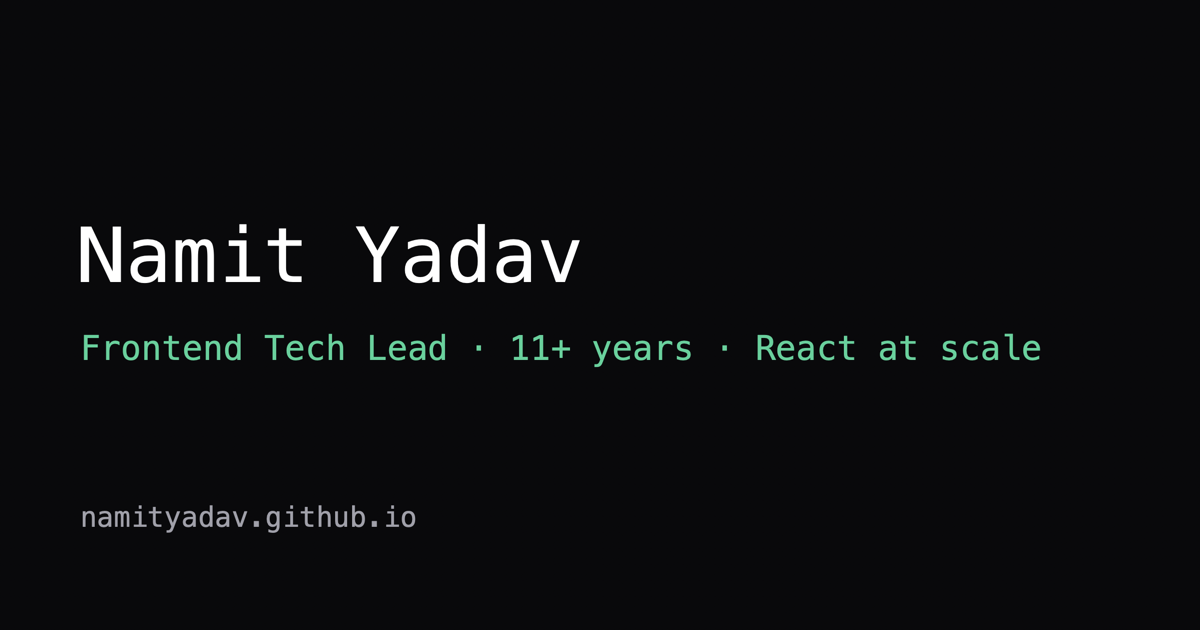
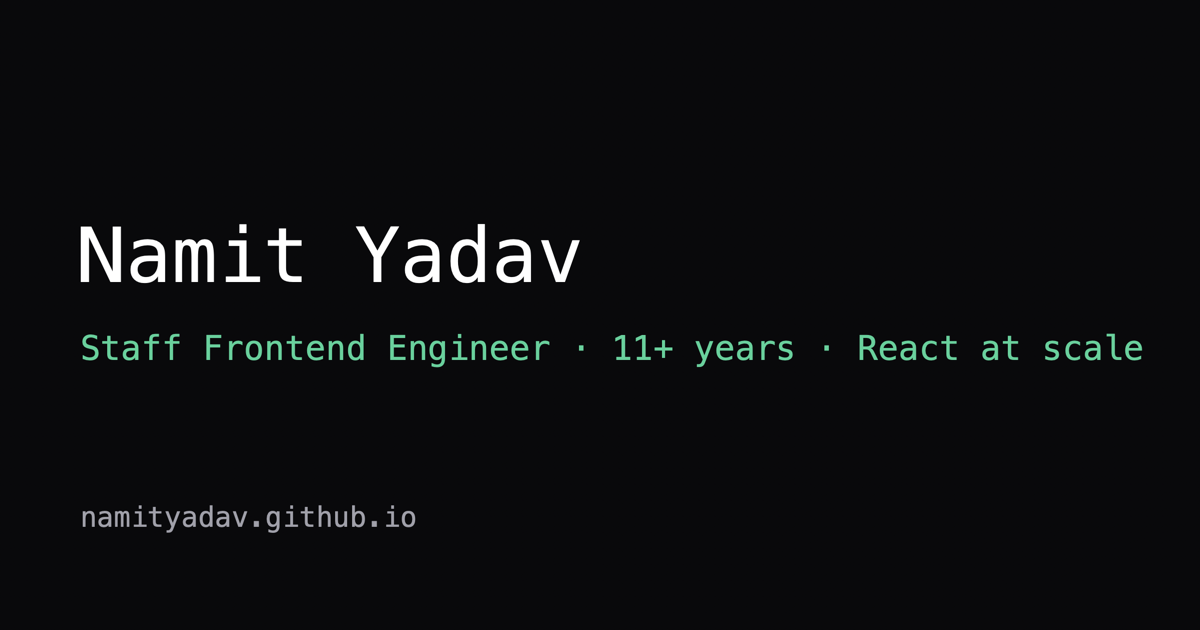
content: staff positioning pass — label, scope numbers, How I work section
Title line, home <title>, JSON-LD and OG image now say Staff Frontend
Engineer. Summary rewritten in a staff voice with the public scope numbers
(15 engineers, 4 pods, 6 apps, ~20 customer orgs). Hero stats move from
outputs to outcomes; the grid stat is labelled as the ADR decision. New
How I work section with five principles, each traceable to a case study.
Skills trimmed of junior-level items. Case studies pick up scope, pod-lead
review of the ADR, and one Snyk figure instead of two percentages.
Spec §11 records the decisions.

Changed region(s): [[0.0617, 0.5127, 0.9558, 0.573]]

diff --git a/src/data/cv.ts b/src/data/cv.ts
@@ -7,22 +7,45 @@ export type Role = {
   bullets: Bullet[];
 };
 
-export const titleLine = 'Frontend Tech Lead · 11+ years · React at scale';
+export const titleLine = 'Staff Frontend Engineer · 11+ years · React at scale';
 
 export const summary =
-  'I build and maintain large React single-page applications. Recent work: framework migrations at scale, ' +
-  'progressive-rollout and feature-flag infrastructure, and automated quality gates across multi-app codebases.';
+  "Functional lead for Zinier's frontend: 15 engineers in four pods, six React apps, around 20 customer organisations. " +
+  'I write the architecture decisions, build the shared platform every pod ships on, and own the quality gates in every pipeline.';
 
 // Short enough to survive a search-result snippet (~155-160 chars); the fuller
 // on-page summary above is for humans already on the site.
 export const shortDescription =
-  'Frontend Tech Lead with 11+ years building large-scale React applications. ' +
-  'Case studies on migrations, feature flags and grid consolidation.';
+  'Staff Frontend Engineer, 11+ years of React at scale. Functional lead for a 15-engineer frontend org; ' +
+  'case studies on migrations, feature flags and ADRs.';
 
 export const stats = [
-  { value: '6 apps', label: 'migrated React 17→18 & Node 14→22' },
-  { value: '734 → 215', label: 'Snyk vulnerabilities, critical −81%' },
-  { value: '95+ → 1', label: 'data grids onto one implementation (ADR)' },
+  { value: '4 of 4 pods', label: 'ship on the shared library and flag layer' },
+  { value: '−30% bugs', label: 'after quality gates on every pipeline' },
+  { value: '95+ → 1', label: 'data grid implementations, decided by ADR' },
+];
+
+export const principles = [
+  {
+    title: 'Decide in writing',
+    text: 'Architecture decisions go in an ADR with the rejected alternatives and the consequences, reviewed before code moves. The record is what lets fifteen engineers in four pods disagree once and then ship the same way.',
+  },
+  {
+    title: 'Ship dark, roll out per customer',
+    text: 'Large changes land on the main branch behind a flag and go live one organisation at a time, with the legacy path as the fallback. Rollback is a config change, not a release.',
+  },
+  {
+    title: 'Put the gate ahead of the deploy',
+    text: 'Lint, unit tests and visual regression run on every pipeline, not after an incident. Reported bugs fell 30% once the gates were in.',
+  },
+  {
+    title: 'Migrate once, not per app',
+    text: 'When six apps share one library, upgrading them in a single coordinated move beats six partial ones: the library targets one set of peer versions and nobody maintains two.',
+  },
+  {
+    title: 'Write down what went wrong',
+    text: 'Every case study here ends with what I would do differently. The estimate I got wrong and the test I added late are the most useful part of the record.',
+  },
 ];
 
 export const links = {
@@ -40,11 +63,14 @@ export const experience: Role[] = [
     period: 'Jul 2024 – present',
     bullets: [
       {
+        text: 'Functional lead for a 15-engineer frontend org across four pods. Mentor 7 engineers through structured 1:1s and career planning; contribute to frontend hiring.',
+      },
+      {
         text: 'Led the migration of 6 apps from React 17 to 18 and Node 14 to 22 in one coordinated move; Snyk vulnerabilities 734 → 215.',
         work: 'react-18-migration',
       },
       {
-        text: 'Built feature-flag and experimentation infrastructure in the shared component library, shipped across three apps.',
+        text: 'Built the feature-flag and experimentation layer in the shared component library. Every pod ships on it, rolling out per customer organisation with automatic fallback.',
         work: 'feature-flags',
       },
       {
@@ -52,7 +78,7 @@ export const experience: Role[] = [
         work: 'data-grid-consolidation',
       },
       {
-        text: 'Introduced visual regression testing (Storybook, Playwright) and added lint, unit-test and CSS-lint gates to every deployment pipeline. Built a Slack code-review bot tracking PR review quality. Mentored engineers through structured 1:1s and contributed to frontend hiring.',
+        text: 'Put lint, unit-test, CSS-lint and visual-regression gates (Storybook, Playwright) on every deployment pipeline; reported bugs fell 30%. Built a Slack bot tracking PR review quality.',
       },
     ],
   },
@@ -116,12 +142,12 @@ export const experience: Role[] = [
 ];
 
 export const skills = [
-  { group: 'Technical leadership', items: ['ADRs', 'Technical strategy', 'Mentorship', 'Project management', 'RCA', 'Progressive delivery'] },
-  { group: 'Core frontend', items: ['JavaScript (ES6+)', 'TypeScript', 'React', 'Node', 'CSS Modules', 'Webpack'] },
-  { group: 'State & architecture', items: ['Redux', 'MobX', 'React Context', 'Module Federation'] },
-  { group: 'Testing & quality', items: ['Jest', 'React Testing Library', 'Cypress', 'Playwright', 'Visual regression', 'TDD', 'Feature flags'] },
-  { group: 'Infrastructure & tools', items: ['CI/CD', 'Git', 'Performance optimisation', 'Responsive web design'] },
-  { group: 'AI-assisted development', items: ['Codemods', 'Agent-assisted refactoring', 'Prompt design for code generation'] },
+  { group: 'Technical leadership', items: ['ADRs', 'Technical strategy', 'Mentorship', 'Hiring', 'RCA', 'Progressive delivery'] },
+  { group: 'Core frontend', items: ['TypeScript', 'React', 'Node', 'CSS Modules', 'Webpack'] },
+  { group: 'State & architecture', items: ['Redux', 'MobX', 'React Context', 'Micro-frontends', 'Module Federation'] },
+  { group: 'Testing & quality', items: ['Jest', 'React Testing Library', 'Cypress', 'Playwright', 'Visual regression', 'TDD'] },
+  { group: 'Delivery & infrastructure', items: ['CI/CD quality gates', 'Feature flags (Firebase Remote Config)', 'Performance optimisation'] },
+  { group: 'AI-assisted development', items: ['Codemods', 'Agent-assisted migrations and refactors'] },
 ];
 
 export const education = 'B.Tech (CSE), Inderprastha Engineering College, Ghaziabad · 2010 – 2014';

diff --git a/src/content/work/feature-flags.md b/src/content/work/feature-flags.md
@@ -2,10 +2,10 @@
 title: "Feature flags and experimentation in the shared component library"
 company: Zinier
 period: "2024 – 2025"
-summary: "Flag and experiment infrastructure built once in the shared library and shipped in three apps, used to roll out a major component rewrite per organisation with automatic fallback."
+summary: "Flag and experiment infrastructure built once in the shared library; every frontend pod ships on it, rolling out a major component rewrite per customer organisation with automatic fallback."
 metrics:
-  - { label: "apps using it", value: "3" }
-  - { label: "rollout unit", value: "per organisation" }
+  - { label: "pods shipping on it", value: "4 of 4" }
+  - { label: "rollout unit", value: "per customer org" }
   - { label: "fallback", value: "automatic" }
 tags: [Feature flags, Progressive delivery, Firebase, GA4]
 order: 2
@@ -23,13 +23,13 @@ Without flags, a rewrite ships to everyone at once or not at all. A regression f
 
 - Built the flag layer in the shared component library: one Firebase initialisation, boolean, string and JSON flag hooks for React, plain getters for non-React code. Every app got it by upgrading the library; three consume it today.
 - Resolution order is fixed: a local override for developers, then Remote Config, then the fallback written in code. A fetch failure or a missing flag lands on the fallback, which is always the legacy path, so the old behaviour is the default and needs no extra guard.
-- Targeting is per organisation. After login the app sends organisation, role and user as Remote Config signals, so a flag can be on for one customer, a percentage, or a role, from the Firebase console.
+- Targeting is per organisation, around 20 of them today. After login the app sends organisation, role and user as Remote Config signals, so a flag can be on for one customer, a percentage, or a role, from the Firebase console.
 - Fetch interval is an hour in production and ten seconds on QA and staging hosts, so testers see a change immediately and production stays cheap.
 - GA4 exposure and conversion events, keyed by flag and variant, so an experiment can be measured without a separate analytics integration.
 
 ## Outcome
 
-The grid rewrite became the pilot flag. Grids were migrated on the main branch and shipped dark, hidden behind the flag, so nothing unfinished reached users during a migration that ran for months. QA turned it on per grid and per organisation, and turning it off for a customer became a config change instead of a release. The same layer now gates other work across the three apps.
+The grid rewrite became the pilot flag. Grids were migrated on the main branch and shipped dark, hidden behind the flag, so nothing unfinished reached users during a migration that ran for months. QA turned it on per grid and per organisation, and turning it off for a customer became a config change instead of a release. All four frontend pods ship on the layer today, and it gates other work across the three apps that consume it.
 
 ## What I'd do differently
 

diff --git a/src/content/work/react-18-migration.md b/src/content/work/react-18-migration.md
@@ -2,7 +2,7 @@
 title: "Six apps from React 17 to 18 and Node 14 to 22, in one move"
 company: Zinier
 period: "2024 – 2025"
-summary: "One coordinated upgrade of framework, runtime, state and routing across six production apps, cutting Snyk-reported vulnerabilities by 71%."
+summary: "One coordinated upgrade of framework, runtime, state and routing across six production apps, taking Snyk-reported vulnerabilities from 734 to 215."
 metrics:
   - { label: "apps migrated", value: "6" }
   - { label: "Snyk vulnerabilities", value: "734 → 215" }
@@ -13,7 +13,7 @@ order: 1
 
 ## Context
 
-Zinier's field-service platform is six React single-page applications sharing one component library. When I joined as frontend tech lead in 2024 they were all on React 17 and Node 14.
+Zinier's field-service platform is six React single-page applications sharing one component library, built by four pods and used by around 20 customer organisations. When I joined as frontend tech lead in 2024 they were all on React 17 and Node 14.
 
 ## Problem
 
@@ -22,7 +22,7 @@ Two React majors and four Node LTS releases behind, with 734 Snyk-reported vulne
 ## Approach
 
 - Upgraded the whole chain in one coordinated move, React 18.3.1, Node 22, Redux 5, React Router 6.26, so the shared library only ever targeted one set of peer versions.
-- Worked alone for the first months, then brought in two junior engineers for the long tail of per-app fixes. About six months end to end.
+- Upgraded the shared library and the first app myself so the pattern was proven before anyone else touched it, then brought in two junior engineers for the long tail of per-app fixes and reviewed every one. About six months end to end.
 - Shipped to a temporary deployment first so QA could run the full regression against real data without touching the shared development environment. Moved it into the development environment once it was stable, then through the normal release train.
 - Held each app to the existing lint, unit-test and visual-regression gates before it shipped.
 

diff --git a/docs/superpowers/specs/2026-09-23-portfolio-design.md b/docs/superpowers/specs/2026-09-23-portfolio-design.md
@@ -234,3 +234,20 @@ contrast already tuned in the copied gruvbox ramp, no motion beyond the theme fa
 
 Analytics (Plausible or GA4 tag) · contact form (Formspree) · per-page OG images ·
 German version · headshot · a `now` page · custom domain with CNAME.
+
+## 11. Staff positioning pass (2026-09-23, after review)
+
+Review found the site read as senior/lead: "Tech Lead" label everywhere, IC-voiced summary,
+output metrics, no scope numbers, no statement of how Namit works. Decisions:
+
+| Topic | Decision |
+|---|---|
+| Label | Title line, home `<title>`, JSON-LD `jobTitle`, OG alt: **Staff Frontend Engineer**. Official titles stay in Experience. |
+| Scope numbers (public) | 15 frontend engineers, 4 pods, 7 mentees, 6 apps, ~20 customer organisations; all 4 pods on the shared library and flag layer; reported bugs −30% after quality gates. |
+| Hero stats | `4 of 4 pods` · `−30% bugs` · `95+ → 1` kept as the ADR *decision*, labelled so; delivery progress stays in the study. Snyk numbers move to the bullets. |
+| Summary | Staff voice: functional lead, writes the decisions, builds the shared platform, owns the quality gates. |
+| How I work | New home section `#how-i-work` (nav item too): five principles in `cv.ts`, each traceable to a case study. |
+| Skills | Cut Git, Responsive web design, JavaScript (ES6+), "Prompt design"; add Hiring, Micro-frontends. |
+| Case studies | Snyk card summary states 734 → 215 instead of a second percentage. Scope numbers and ADR review with pod leads added. React 18 "worked alone" reframed as proving the pattern before scaling with two juniors. |
+| Fonts | Unchanged. interview-prep uses GeistMono only, so parity means mono everywhere. |
+| Out of band | GitHub profile (bio, website, location, README) is Namit's to change; text supplied in chat. `Namit_Yadav_CV.pdf` still says "Frontend engineer" and carries the relocation line and phone by Namit's earlier decision; re-export when the CV is next updated. |

diff --git a/src/content/work/data-grid-consolidation.md b/src/content/work/data-grid-consolidation.md
@@ -21,10 +21,10 @@ Every grid fix, accessibility improvement or design change had to be made dozens
 
 ## Approach
 
-- Wrote the ADR: one generic grid in the shared library on `@tanstack/react-table`, decoupled from any app's model, with an adapter so the grids defined in JSON configuration and the grids written in code render through the same component. Decision, rejected alternatives and consequences written down for review before code moved.
+- Wrote the ADR: one generic grid in the shared library on `@tanstack/react-table`, decoupled from any app's model, with an adapter so the grids defined in JSON configuration and the grids written in code render through the same component. Decision, rejected alternatives and consequences written down and reviewed with the pod leads before code moved, so four pods with their own grids agreed once instead of per grid.
 - Rejected patching the legacy grid further, since it was the source of the problem, and rejected lifting the app-specific table unchanged, since its coupling would have spread to every app.
 - Split the migration into three phases by capability and risk: read-only grids first, selection and bulk actions second, inline editing with export and import last. Each phase ends at a QA checkpoint, and the plan set success criteria up front: zero functional regressions, over 80% test coverage on the new component, no more than a 10% bundle increase.
-- Every grid moves behind the feature flag from the shared library, so rollback is per grid and per organisation: remove the flag or the type from that grid's configuration, no release needed.
+- Every grid moves behind the feature flag from the shared library, so rollback is per grid and per customer organisation, around 20 of them: remove the flag or the type from that grid's configuration, no release needed.
 - Two engineers, planned as three sprints.
 
 ## Outcome
